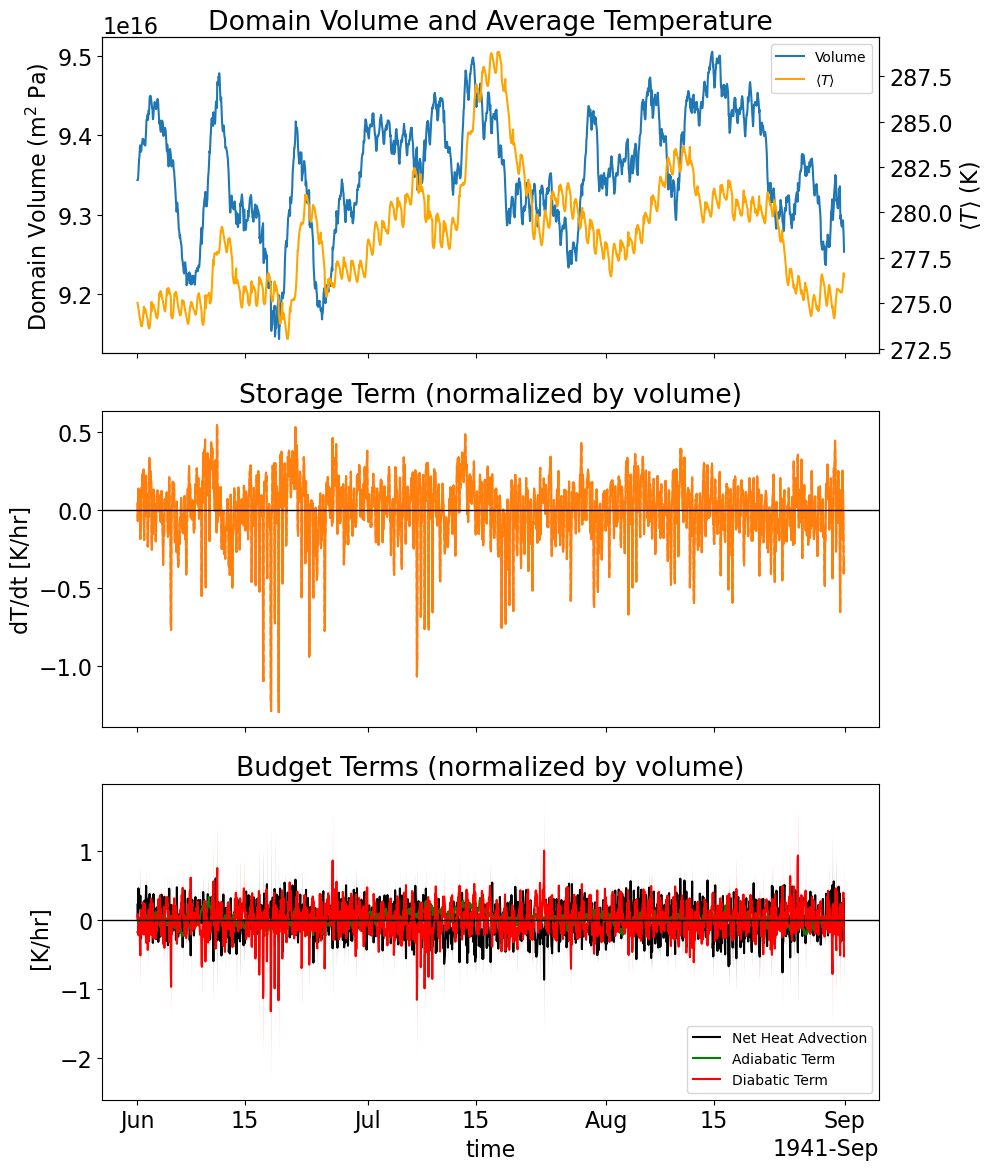
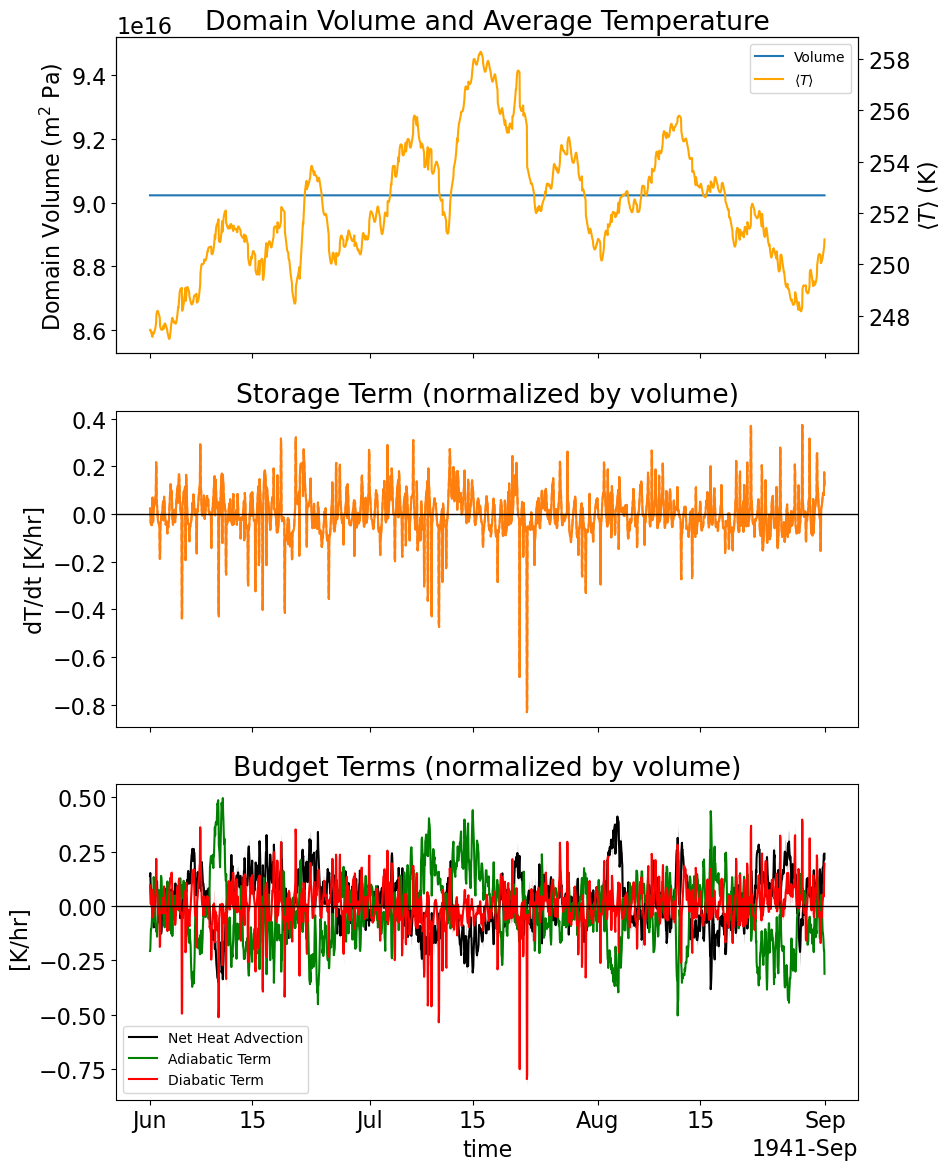
modified plots to output to constant temperature test output into separate folder.

diff --git a/src/plot_results.py b/src/plot_results.py
@@ -345,13 +345,29 @@ def plot_budget_terms_day_bin(ds_budget: xr.Dataset, plot_dir: str) -> None:
 def plot_constant_T_results(ds_budget: xr.Dataset, ds_test:xr.Dataset, plot_dir: str) -> None:
     # comparison plot between original budget "uncertainty in advection" and test budget net heat advection
 
-    fig, ax = plt.subplots(figsize=(10, 6), tight_layout=True)
+    norm_factor            = 1 / ds_budget["domain_volume"]
+    time_conversion_factor = 3600
 
-    ax.plot(ds_budget["time"], ds_budget["advection_error"], label="Advection Error Estimate", color='C0')
-    ax.plot(ds_test["time"], ds_test["advection_term"], label="Net Heat Advection (Constant T)", color='C1')
+    fig, ax = plt.subplots(figsize=(10, 10), tight_layout=True, nrows=2, sharex=True)
 
-    ax.set_xlabel("Time")
-    ax.set_ylabel("Advection (K/s)")
+    ax[0].plot(ds_budget["time"], ds_budget["advection_error"] * norm_factor * time_conversion_factor, label=r"$\delta M T_{scale}$", color='red')
+    ax[0].plot(ds_test["time"], ds_test["advection_term"] * norm_factor * time_conversion_factor, label=r"$\mathcal{F}_{advection}$", color='k')
 
+    ax[0].legend(fontsize=10)
+
+    #integrated quantities
+    dt = (ds_budget["time"][1] - ds_budget["time"][0]).values / np.timedelta64(1, 's')  # time step in seconds
+    integrated_advection_error = (ds_budget["advection_error"] * norm_factor * dt).cumsum(dim="time")
+    integrated_net_heat_advection = (ds_test["advection_term"] * norm_factor * dt).cumsum(dim="time")
+
+    ax[1].plot(ds_budget["time"], integrated_advection_error, label=r"$T_{scale} \int \delta M dt$", color='red')
+    ax[1].plot(ds_test["time"], integrated_net_heat_advection, label=r"$\int \mathcal{F}_{advection} dt$", color='k')
+
+    ax[1].legend(fontsize=10)
+
+    ax[1].set_xlabel("Time")
+    ax[0].set_ylabel("Advection (K/hr)")
+    ax[1].set_ylabel("Integrated Advection (K)")
+    fig.suptitle("Comparison of Advection Error and Net Heat Advection (Constant T Test)")
     plt.savefig(os.path.join(plot_dir, "constant_T_advection_comparison.png"), bbox_inches="tight")
     plt.close(fig)

diff --git a/src/config.py b/src/config.py
@@ -24,7 +24,7 @@ DEFAULT_BBOX          = (40, 60, -130, -110) # lat_min, lat_max, lon_min, lon_ma
 
 DEFAULT_MARGIN_N: int = 1 # number of grid points to keep as margin when determining domain extent
 
-DEFAULT_ZG_BOT_MODE = "surface_pressure" #"pressure_level" # or "surface_pressure"
+DEFAULT_ZG_BOT_MODE = "pressure_level" #"pressure_level" # or "surface_pressure"
 
 # set True if "surface_pressure" is used as bottom boundary for geopotential height budget
 # else False if "pressure_level"
@@ -33,6 +33,6 @@ DEFAULT_ALLOW_BOTTOM_OVERFLOW = False # allow bottom layer weights to exceed 1 i
 # pressure levels for geopotential height domain boundaries (in Pa)
 # zg_bottom_pressure only used if zg_bottom == "pressure_level"; else surface pressure determines bottom boundary
 DEFAULT_ZG_BOT_PA: float = 600 * 100 # lower boundary pressure for geopotential height budget in Pa
-DEFAULT_ZG_TOP_PA: float = 600 * 100 # upper boundary pressure for geopotential height budget in Pa
+DEFAULT_ZG_TOP_PA: float = 300 * 100 # upper boundary pressure for geopotential height budget in Pa
 
 DEFAULT_PLOTS_OUTPUT:str = "/home/mhpereir/eulerian_heat_budget/results/plots"

diff --git a/src/plot_diagnostics.py b/src/plot_diagnostics.py
@@ -86,7 +86,7 @@ def fig2_mass_advection_residual_timeseries(advection_terms: xr.Dataset, dV_dt: 
         print("Time coordinate is NOT in datetime format. Check your dataset.")
         raise ValueError("Time coordinate is not in datetime format.")
 
-    dt = (advection_terms['time'][1] - advection_terms['time'][0]).values.astype(float) / 1e9 # convert to seconds
+    dt = (advection_terms["time"][1] - advection_terms["time"][0]).values / np.timedelta64(1, 's') # convert to seconds
     cumulative_residual = np.cumsum( delta_mass * dt)
     cumulative_net_adv  = np.cumsum(advection_terms['net_mass_advection'] * dt)
     cumulative_dvdt     = np.cumsum(dV_dt * dt)
@@ -166,7 +166,6 @@ def fig2_mass_advection_residual_timeseries(advection_terms: xr.Dataset, dV_dt: 
 
     for var in mass_vars:
         ax[0].plot(advection_terms_smoothed['time'], advection_terms_smoothed[var] * mean_norm_factor * time_rate_conversion, label=var)
-
 
         if var.split('_')[-1] in ['east', 'west']:
             net_zonal_mass_advection += advection_terms_smoothed[var].values* mean_norm_factor * time_rate_conversion

diff --git a/scripts/run_budget.py b/scripts/run_budget.py
@@ -71,4 +71,6 @@ if __name__ == "__main__":
 
     plot_results.plot_constant_T_results(result, result_test, plot_dir=config.DEFAULT_PLOTS_OUTPUT+'_2')
 
+    plot_results.plot_budget_terms_day_bin(result_test, plot_dir=config.DEFAULT_PLOTS_OUTPUT+'_2')
+
     print(result)
